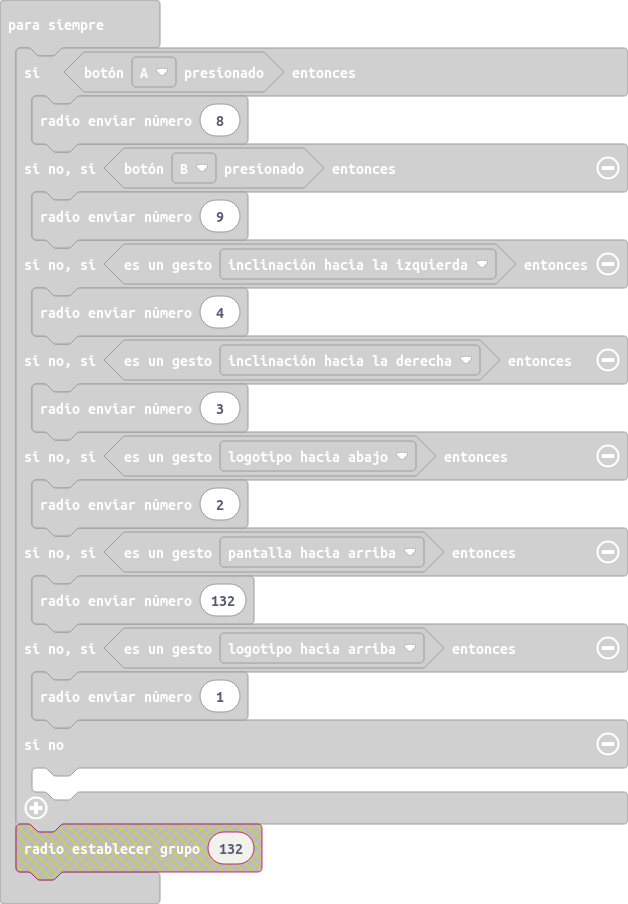
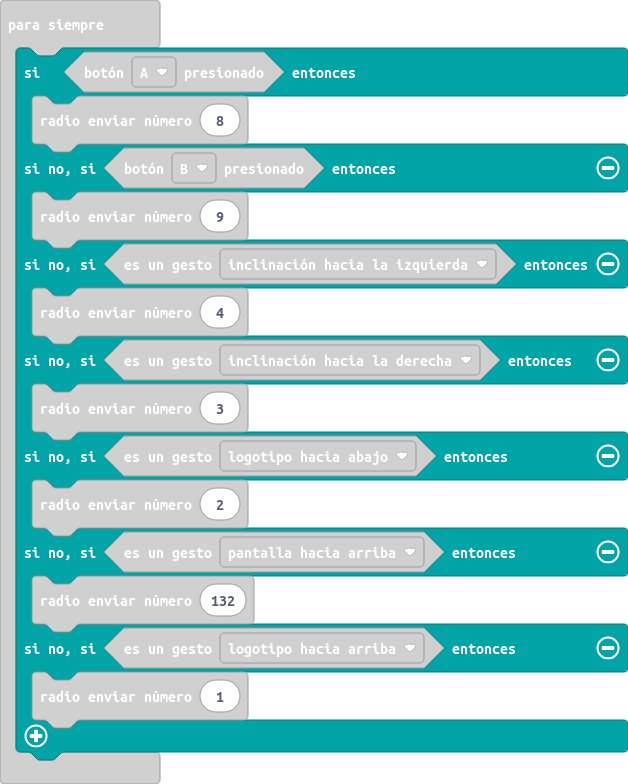
Actualizar main.blocks, main.ts

diff --git a/main.ts b/main.ts
@@ -14,7 +14,5 @@ basic.forever(function () {
         radio.sendNumber(132)
     } else if (input.isGesture(Gesture.LogoUp)) {
         radio.sendNumber(1)
-    } else {
-    	
     }
 })
